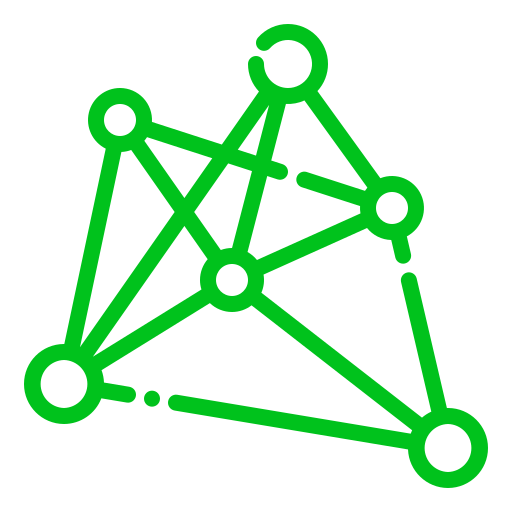
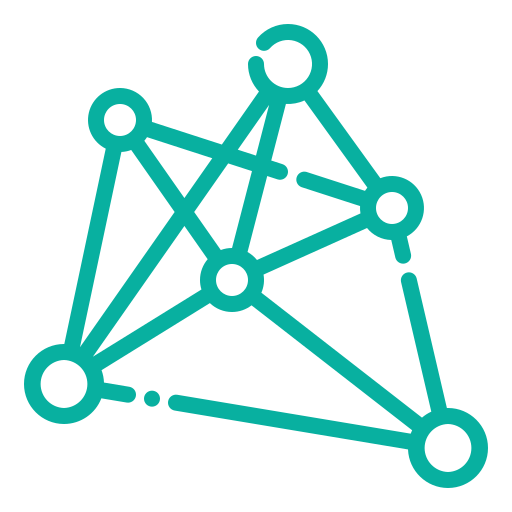
rectification du scrollbar

Changed region(s): [[0.0312, 0.0312, 0.9688, 0.9688]]

diff --git a/demoucron_app.py b/demoucron_app.py
@@ -526,16 +526,37 @@ class App(tk.Tk):
         
         # Canvas pour scroller le contenu
         main_canvas = tk.Canvas(body_container, bg=C["bg"], highlightthickness=0)
-        scrollbar = tk.Scrollbar(body_container, orient="vertical", command=main_canvas.yview)
+        scrollbar = tk.Scrollbar(
+            body_container, orient="vertical",
+            command=main_canvas.yview,
+            width=6           # ← réduit de ~17 à 6px
+        )
         scrollable_frame = tk.Frame(main_canvas, bg=C["bg"])
-        
+
         scrollable_frame.bind(
             "<Configure>",
             lambda e: main_canvas.configure(scrollregion=main_canvas.bbox("all"))
         )
-        
-        main_canvas.create_window((0, 0), window=scrollable_frame, anchor="nw")
-        main_canvas.configure(yscrollcommand=scrollbar.set)
+
+        win_id = main_canvas.create_window((0, 0), window=scrollable_frame, anchor="nw")
+
+        #  étirer le frame interne à la largeur du canvas
+        def _on_canvas_resize(event):
+            main_canvas.itemconfig(win_id, width=event.width)
+        main_canvas.bind("<Configure>", _on_canvas_resize)
+
+        #  masquer la scrollbar si pas nécessaire
+        def _yscroll_set(first, last):
+            if float(first) <= 0.0 and float(last) >= 1.0:
+                scrollbar.grid_remove()
+            else:
+                scrollbar.grid()
+            main_canvas.yview_moveto(first)
+
+        main_canvas.configure(yscrollcommand=_yscroll_set)   
+
+        main_canvas.grid(row=0, column=0, sticky="nsew")
+        scrollbar.grid(row=0, column=1, sticky="ns")
         
         # Mousewheel scroll
         def _on_mousewheel(event):